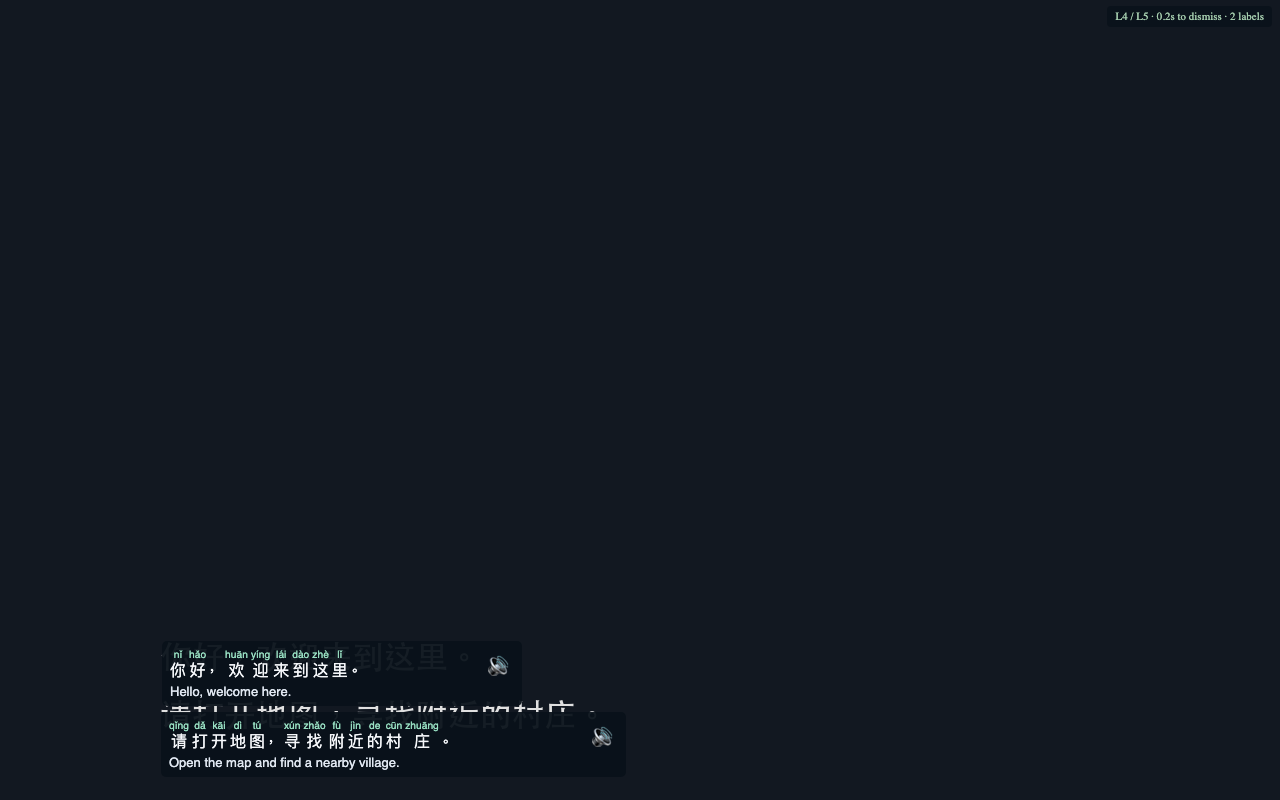
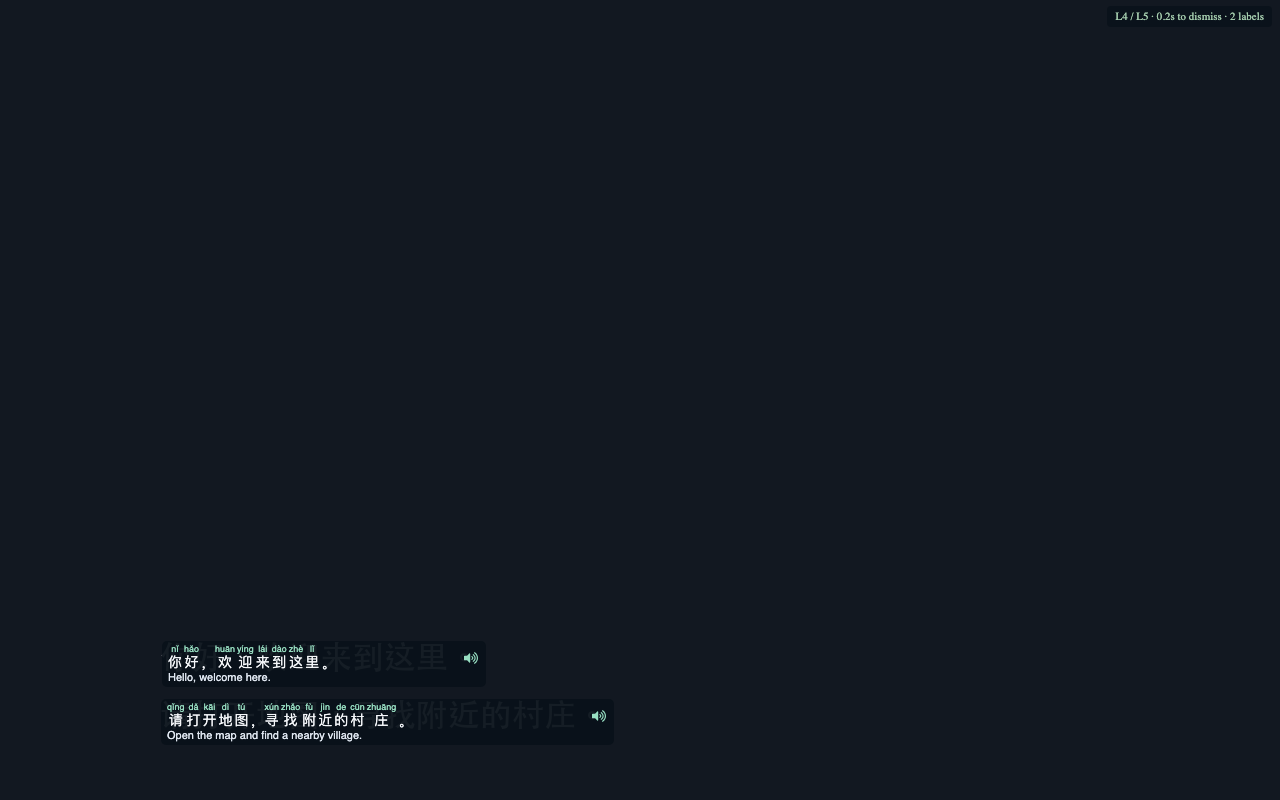
Keep dialogue rows in order and compact overlay labels

Changed region(s): [[0.125, 0.8125, 0.4688, 0.9688], [0.3438, 0.8125, 0.4062, 0.8438], [0.4688, 0.9062, 0.5, 0.9375]]

diff --git a/src/layout.ts b/src/layout.ts
@@ -3,48 +3,46 @@ export interface LabelSize { width: number; height: number; }
 export interface Placement { left: number; top: number; width: number; height: number; }
 
 const clamp = (value: number, low: number, high: number) => Math.max(low, Math.min(value, Math.max(low, high)));
-const overlap = (a: Placement, b: Placement) => Math.max(0, Math.min(a.left + a.width, b.left + b.width) - Math.max(a.left, b.left)) *
-  Math.max(0, Math.min(a.top + a.height, b.top + b.height) - Math.max(a.top, b.top));
-export const labelsOverlap = (boxes: Placement[]) => boxes.some((box, index) => boxes.slice(index + 1).some(other => overlap(box, other) > 0));
+const gap = 4;
+const sameColumn = (a: Placement, b: Placement) => a.left < b.left + b.width + gap && b.left < a.left + a.width + gap;
+export const labelsOverlap = (boxes: Placement[]) => boxes.some((a, index) => boxes.slice(index + 1).some(b =>
+  a.left < b.left + b.width && b.left < a.left + a.width && a.top < b.top + b.height && b.top < a.top + a.height));
+const layoutFits = (boxes: Placement[], width: number, height: number) => !labelsOverlap(boxes) && boxes.every(box =>
+  box.left >= 4 && box.top >= 32 && box.left + box.width <= width - 4 && box.top + box.height <= height - 4);
 
-// Anchor over the original text. Search neighboring free edges only when a
-// label would collide. If no layout fits, paginateLabels starts another page.
+// Keep OCR reading order within each overlapping column. Push later rows down,
+// then move the group upward if its last row reaches the bottom of the screen.
+// An over-tall group stays out of bounds so pagination can split it safely.
 export function placeLabels(rects: Rect[], sizes: LabelSize[], width: number, height: number): Placement[] {
-  const placed: Placement[] = [];
-  rects.forEach((rect, index) => {
-    const size = sizes[index];
-    const anchorX = clamp(rect.left * width, 4, width - size.width - 4);
-    const anchorY = clamp(rect.top * height, 32, height - size.height - 4);
-    const xs = [anchorX, 4, width - size.width - 4];
-    const ys = [anchorY, 32, height - size.height - 4];
-    for (const other of placed) {
-      xs.push(other.left - size.width - 6, other.left + other.width + 6);
-      ys.push(other.top - size.height - 6, other.top + other.height + 6);
+  const placed = rects.map((rect, index) => ({
+    left: clamp(rect.left * width, 4, width - sizes[index].width - 4),
+    top: clamp(rect.top * height, 32, height - sizes[index].height - 4),
+    ...sizes[index],
+  }));
+  for (let i = 0; i < placed.length; i++) {
+    for (let j = 0; j < i; j++) if (sameColumn(placed[i], placed[j])) {
+      placed[i].top = Math.max(placed[i].top, placed[j].top + placed[j].height + gap);
     }
-    const candidates = xs.flatMap(left => ys.map(top => {
-      const box = { left: clamp(left, 4, width - size.width - 4), top: clamp(top, 32, height - size.height - 4), ...size };
-      const collision = placed.reduce((sum, other) => sum + overlap(box, {
-        left: other.left - 3, top: other.top - 3, width: other.width + 6, height: other.height + 6,
-      }), 0);
-      return { box, collision, distance: Math.abs(box.left - anchorX) + Math.abs(box.top - anchorY) };
-    }));
-    candidates.sort((a, b) => a.collision - b.collision || a.distance - b.distance);
-    placed.push(candidates[0].box);
-  });
+  }
+  for (let i = placed.length - 1; i >= 0; i--) {
+    placed[i].top = Math.min(placed[i].top, height - placed[i].height - 4);
+    for (let j = i + 1; j < placed.length; j++) if (sameColumn(placed[i], placed[j])) {
+      placed[i].top = Math.min(placed[i].top, placed[j].top - placed[i].height - gap);
+    }
+  }
   return placed;
 }
 
 export interface LabelPage { indices: number[]; positions: Placement[]; }
 
-// Keep every label at a source-based position. Dense captures are split into
-// pages instead of moving all text into a clipped or scroll-dependent list.
+// Split sequential rows only when the whole group cannot fit on screen.
 export function paginateLabels(rects: Rect[], sizes: LabelSize[], width: number, height: number): LabelPage[] {
   const pages: LabelPage[] = [];
   let current: LabelPage = { indices: [], positions: [] };
   rects.forEach((_, index) => {
     const indices = [...current.indices, index];
     const positions = placeLabels(indices.map(i => rects[i]), indices.map(i => sizes[i]), width, height);
-    if (current.indices.length && labelsOverlap(positions)) {
+    if (current.indices.length && !layoutFits(positions, width, height)) {
       pages.push(current);
       current = { indices: [index], positions: placeLabels([rects[index]], [sizes[index]], width, height) };
     } else current = { indices, positions };

diff --git a/src/Overlay.tsx b/src/Overlay.tsx
@@ -1,3 +1,4 @@
+import { FaVolumeUp } from "react-icons/fa";
 import { findModuleChild, useQuickAccessVisible } from "@decky/ui";
 import { useLayoutEffect, useRef, useState } from "react";
 import { paginateLabels } from "./layout";
@@ -65,8 +66,8 @@ function ReadingSurface({ store }: { store: Store }) {
     const line = result!.lines[index];
     const font = state!.settings.font_size;
     const textWidth = line.tokens.reduce((sum, token) => sum + Math.max(token.text.length * font,
-      token.pinyin.length * font * .64 * .6) + 3, 0) + 64;
-    return Math.min(width - 24, 680, Math.max(360, textWidth, (line.rect.right - line.rect.left) * width + 28));
+      token.pinyin.length * font * .64 * .6) + 2, 0) + 36;
+    return Math.min(width - 24, 680, Math.max(240, textWidth, (line.rect.right - line.rect.left) * width + 16));
   };
   useLayoutEffect(() => {
     if (!result) return;
@@ -95,16 +96,16 @@ function ReadingSurface({ store }: { store: Store }) {
             style={{ position: "absolute", visibility: shown ? "visible" : "hidden", left: position?.left ?? 4,
               top: position?.top ?? 32, width: cardWidth(index), maxHeight: height - 48,
               flexShrink: 0, writingMode: "horizontal-tb",
-              padding: "5px 8px", boxSizing: "border-box", borderRadius: 5, color: "#f5f7fa", background: "rgba(9,17,26,.94)",
+              padding: "3px 6px", boxSizing: "border-box", borderRadius: 5, color: "#f5f7fa", background: "rgba(9,17,26,.94)",
               fontFamily: "sans-serif", overflowY: "auto", pointerEvents: shown ? "auto" : "none" }}>
-            <div style={{ display: "flex", alignItems: "center", gap: 5 }}>
-              <div style={{ flex: 1, minWidth: 0, fontSize: state.settings.font_size, lineHeight: 1.85, overflowWrap: "normal" }}>
-                {line.tokens.map((token, i) => token.pinyin ? <ruby key={i} style={{ display: "inline-flex", flexDirection: "column-reverse", alignItems: "center", verticalAlign: "bottom", marginRight: 3, whiteSpace: "nowrap", lineHeight: 1.3 }}>{token.text}<rt style={{ display: "block", fontSize: ".64em", color: "#98dfc2", lineHeight: 1.25 }}>{token.pinyin}</rt></ruby> : <span key={i}>{token.text}</span>)}
+            <div style={{ display: "flex", alignItems: "center", gap: 3 }}>
+              <div style={{ flex: 1, minWidth: 0, fontSize: state.settings.font_size, lineHeight: 1.1, overflowWrap: "normal" }}>
+                {line.tokens.map((token, i) => token.pinyin ? <ruby key={i} style={{ display: "inline-flex", flexDirection: "column-reverse", alignItems: "center", verticalAlign: "bottom", marginRight: 2, whiteSpace: "nowrap", lineHeight: 1.2 }}>{token.text}<rt style={{ display: "block", fontSize: ".64em", color: "#98dfc2", lineHeight: 1.15 }}>{token.pinyin}</rt></ruby> : <span key={i}>{token.text}</span>)}
               </div>
               <button aria-label={`Speak Chinese line ${index + 1}`} onClick={() => speak(index)}
-                style={{ color: "#98dfc2", background: "transparent", border: 0, padding: 5, fontSize: 18 }}>🔊</button>
+                style={{ color: "#98dfc2", background: "transparent", border: 0, padding: 2, flexShrink: 0, lineHeight: 1 }}><FaVolumeUp size={14} aria-hidden="true" /></button>
             </div>
-            {state.settings.translation && <div style={{ fontSize: Math.max(13, state.settings.font_size - 3), lineHeight: 1.3, color: "#e1e8f2" }}>
+            {state.settings.translation && <div style={{ fontSize: Math.max(10, state.settings.font_size - 3), lineHeight: 1.2, color: "#e1e8f2" }}>
               {line.translation || (result.translating ? "Translating…" : result.translation_error ? "Translation unavailable" : "")}
             </div>}
           </div>;

diff --git a/tests/overlay-harness.tsx b/tests/overlay-harness.tsx
@@ -9,7 +9,7 @@ import fixture from "../artifacts/overlay-fixture.json";
 const state: State = {
   version: 1,
   status: "running", message: "Local", installed: true, screenshot: "../artifacts/ocr-fixture.png",
-  settings: { enabled: true, chinese_script: "auto", tts_auto: false, translation: true, tone_style: "marks", font_size: 16, confidence: .65, threads: 2, ocr_device: "auto" },
+  settings: { enabled: true, chinese_script: "auto", tts_auto: false, translation: true, tone_style: "marks", font_size: 14, confidence: .65, threads: 2, ocr_device: "auto" },
   result: fixture,
 };
 const store = new Store();
@@ -54,6 +54,10 @@ Object.assign((window as any).preview, {
   tradition: () => store.update({ ...state, result: { ...state.result!, lines: [{ ...state.result!.lines[0], text: "銀行的行長喜歡旅行。", tokens: [..."銀行的行長喜歡旅行。"].map((text) => ({text, pinyin: "háng"})) }] } }),
   narrow: () => store.update({ ...state, result: { ...state.result!, lines: [{ ...state.result!.lines[0], rect: { left: .2, top: .4, right: .21, bottom: .45 } }] } }),
   crowded: () => store.update({ ...state, settings: { ...state.settings, font_size: 32 }, result: { ...state.result!, lines: Array.from({length: 8}, () => ({ ...state.result!.lines[0], tokens: Array(20).fill(state.result!.lines[0].tokens).flat(), rect: { left: .4, top: .5, right: .41, bottom: .55 } })) } }),
+  bottomDialogue: () => store.update({ ...state, result: { ...state.result!, lines: [.82, .87, .92, .97].map(top => ({
+    ...state.result!.lines[0], tokens: Array(3).fill(state.result!.lines[0].tokens).flat(),
+    rect: { left: .32, top, right: .84, bottom: top + .04 },
+  })) } }),
   multi: () => store.update({ ...state, result: { ...state.result!, lines: [
     { ...state.result!.lines[0], rect: { left: .02, top: .02, right: .43, bottom: .07 } },
     { ...state.result!.lines[0], rect: { left: .52, top: .72, right: .98, bottom: .79 } },

diff --git a/src/Panel.tsx b/src/Panel.tsx
@@ -54,14 +54,14 @@ export function Panel({ store, controller }: { store: Store; controller: Control
       <PanelSectionRow><DropdownItem label="Pinyin tones" selectedOption={state.settings.tone_style} disabled={busy}
         rgOptions={[{ data: "marks", label: "Tone marks · nǐ hǎo" }, { data: "numbers", label: "Numbers · ni3 hao3" }, { data: "none", label: "No tones · ni hao" }]}
         onChange={(option) => save("tone_style", option.data)} /></PanelSectionRow>
-      <PanelSectionRow><SliderField label="Text size" value={state.settings.font_size} min={16} max={32} step={2} disabled={busy}
+      <PanelSectionRow><SliderField label="Text size" value={state.settings.font_size} min={14} max={32} step={2} disabled={busy}
         onChange={(value) => save("font_size", value)} /></PanelSectionRow>
     </PanelSection>
     <PanelSection title="Speech">
 
       <PanelSectionRow><ButtonItem disabled={busy || !state.result?.lines.length} layout="below" onClick={() => void action(() => rpc.speak(-1))}>Speak captured Chinese</ButtonItem></PanelSectionRow>
       {(state.speech_status === "generating" || state.speech_status === "speaking") && <PanelSectionRow><ButtonItem layout="below" onClick={() => void action(rpc.stopSpeech)}>Stop speech</ButtonItem></PanelSectionRow>}
-      <PanelSectionRow><div style={{ fontSize: 12 }}>Offline Mandarin · Piper Huayan medium. Tap 🔊 beside a line to read it.{state.speech_error && <p>{state.speech_error}</p>}</div></PanelSectionRow>
+      <PanelSectionRow><div style={{ fontSize: 12 }}>Offline Mandarin · Piper Huayan medium. Tap the speaker icon beside a line to read it.{state.speech_error && <p>{state.speech_error}</p>}</div></PanelSectionRow>
     </PanelSection>
     <PanelSection title="Performance">
       <PanelSectionRow><DropdownItem label="OCR processor" selectedOption={state.settings.ocr_device} disabled={busy}

diff --git a/src/index.tsx b/src/index.tsx
@@ -24,7 +24,7 @@ export default definePlugin(() => {
   const suspend = steam?.User?.RegisterForPrepareForSystemSuspendProgress?.(() => { void rpc.pause().then(store.update).catch(console.error); });
   return {
     name: "Decky Pinyin",
-    titleView: <div className={staticClasses.Title}>Decky Pinyin · 0.7.2</div>,
+    titleView: <div className={staticClasses.Title}>Decky Pinyin · 0.7.3</div>,
     content: <Panel store={store} controller={controller} />,
     icon: <BsTranslate />,
     alwaysRender: true,

diff --git a/backend/config.py b/backend/config.py
@@ -9,7 +9,7 @@ class Settings:
     tts_auto: bool = True
     translation: bool = True
     tone_style: str = "marks"
-    font_size: int = 16
+    font_size: int = 14
     confidence: float = 0.65
     threads: int = 2
     ocr_device: str = "auto"
@@ -22,7 +22,7 @@ class Settings:
         if set(raw) - set(values):
             raise ValueError("Unknown setting")
         values.update(raw)
-        for name, lo, hi in (("font_size", 16, 32), ("threads", 1, 4)):
+        for name, lo, hi in (("font_size", 14, 32), ("threads", 1, 4)):
             value = values[name]
             if type(value) is not int or not lo <= value <= hi:
                 raise ValueError(f"{name} must be an integer from {lo} to {hi}")

diff --git a/tests/test_plugin.py b/tests/test_plugin.py
@@ -85,7 +85,7 @@ async def test_disabled_preference_persists_but_pause_preserves_enabled(plugin_m
     module, _ = plugin_module
     plugin = module.Plugin()
     await plugin._main()
-    assert plugin.settings.enabled and plugin.settings.font_size == 16
+    assert plugin.settings.enabled and plugin.settings.font_size == 14
     await plugin.pause()
     assert plugin.settings.enabled
     await plugin.stop()

diff --git a/README.md b/README.md
@@ -2,18 +2,18 @@
 
 A personal Decky plugin for **Chinese text → tone-marked pinyin + English on demand**, entirely on the Steam Deck. Inspired by [Decky-Translator](https://github.com/cat-in-a-box/Decky-Translator).
 
-**Status:** the user confirmed that 0.5.1 capture and overlay work on their Steam Deck. The user confirmed speech and pinyin in 0.6.x, but reported a dark screen and narrow/hidden labels. The user then reported invisible labels with working speech in 0.7.0. Version 0.7.1 then made the entire overlay invisible. A two-window browser test reproduced labels being attached to the loader window instead of the game UI. Version 0.7.2 selects the rendered component’s owner document and measures its actual overlay surface. The new regression checks pass; device confirmation is still needed. Deck latency and game performance have not been measured.
+**Status:** the user confirmed that 0.7.2 capture, speech and overlay are visible on their Steam Deck. Their photo showed later dialogue rows moving above earlier ones when space ran out. Version 0.7.3 preserves reading order, moves crowded rows upward together, and makes labels more compact. The new layout still needs device confirmation. Deck latency and game performance have not been measured.
 
 ## Install
 
-1. Copy `out/Decky-Pinyin-0.7.2-offline.zip` to your Steam Deck.
+1. Copy `out/Decky-Pinyin-0.7.3-offline.zip` to your Steam Deck.
 2. In Decky settings, enable Developer Mode. Open Developer → Install Plugin from ZIP and select the file.
 3. Launch a game in Gaming Mode and open **Decky Pinyin**.
 4. The **L4 / L5 shortcuts are enabled by default**; allow the local models to load. Disable other plugins using these keys.
 5. Close the menu and hold **L4 for Simplified Chinese** or **L5 for Traditional Chinese**, for **0.2 seconds**. With labels visible, hold either key to dismiss; release and hold the desired key for the next capture. A progress indicator shows activation.
 6. The panel also has **Capture Simplified**, **Capture Traditional** and **Dismiss overlay** buttons. Disable the shortcut to unload the models. Settings changes restart models when enabled. Disabling the shortcut is remembered across reloads.
 
-Download the actual `Decky-Pinyin-0.7.2-offline.zip` release asset. If downloading the Actions artifact named `decky-pinyin-offline.zip`, extract that wrapper once and install the inner versioned offline ZIP.
+Download the actual `Decky-Pinyin-0.7.3-offline.zip` release asset. If downloading the Actions artifact named `decky-pinyin-offline.zip`, extract that wrapper once and install the inner versioned offline ZIP.
 
 The ZIP includes Python, dependencies, OCR weights, the neural pinyin model, the translation model, and an offline Mandarin voice. **No model setup, API keys, network connection, or system Python changes are needed on the Deck.** Building the ZIP on a developer machine requires downloads once. Existing Decky Loader and SteamOS PipeWire/GStreamer components are required. Desktop Mode is not currently supported.
 
@@ -26,9 +26,9 @@ Capture and controller handling are ported from Decky-Translator; see [upstream 
 - PP-OCRv4 mobile detection/recognition with experimental native WebGPU acceleration (Vulkan on Linux). Default Auto mode attempts GPU and reports CPU fallback if unavailable; explicit GPU and CPU modes are also available. Unsupported GPU operations can still use CPU kernels; horizontal Chinese text is the intended input. Stylized fonts, vertical text, motion blur, and very small glyphs may be missed.
 - OPUS-MT Chinese-to-English, converted to int8 CTranslate2, with greedy decoding for speed. Translation quality is limited by this compact model and OCR quality. English is the current target language.
 - Pinyin appears before translation. Old translations never replace newer dialogue.
-- Every activation captures the full screen. The old overlay and Quick Access menu are hidden first, with a brief settling delay before capture to avoid reading our own text. There are no capture-region options. The game stays visible with 12% translucent dimming. Captured screenshots are used for recognition and never displayed over the game. Dark labels are anchored over the original text; collisions move labels to the nearest available space. Narrow OCR boxes do not force narrow labels. If labels cannot fit without overlap, Previous/Next buttons show additional pages at their source positions. The overlay renders in a separate layer isolated from Steam/Decky container clipping and global styles. The labels describe a single capture; dismiss and recapture if the game text moves. Default text size is 16 px, the slider minimum.
+- Every activation captures the full screen. The old overlay and Quick Access menu are hidden first, with a brief settling delay before capture to avoid reading our own text. There are no capture-region options. The game stays visible with 12% translucent dimming. Captured screenshots are used for recognition and never displayed over the game. Dark labels are anchored over the original text; overlapping rows keep their reading order and shift upward together when they reach the bottom. Narrow OCR boxes do not force narrow labels. If labels cannot fit without overlap, Previous/Next buttons show additional pages at their source positions. The overlay renders in a separate layer isolated from Steam/Decky container clipping and global styles. The labels describe a single capture; dismiss and recapture if the game text moves. Default Chinese text size is 14 px, the slider minimum; pinyin is about 9 px and English is 11 px. Compact padding and line spacing reduce card height.
 - Models remain loaded while enabled. Each request opens a short PipeWire capture, preferring a PNG snapshot with raw RGB fallback. Dismissed or superseded results cannot reappear. Requests are serialized; the overlay stays until dismissed or replaced.
-- Tap **🔊** on a label to hear that line in Mandarin, or use **Speak captured Chinese** in the panel. **Read Chinese after capture** is on by default: recognized Chinese is read aloud once after each capture. Turn it off for button-only speech. The bundled Piper Huayan voice runs on CPU and plays through SteamOS audio. Capture, dismissal, Stop speech and unload stop playback.
+- Tap the **speaker icon** on a label to hear that line in Mandarin, or use **Speak captured Chinese** in the panel. **Read Chinese after capture** is on by default: recognized Chinese is read aloud once after each capture. Turn it off for button-only speech. The bundled Piper Huayan voice runs on CPU and plays through SteamOS audio. Capture, dismissal, Stop speech and unload stop playback.
 - Stop/unload terminates the worker and capture process group, freeing memory. Suspend stops the session; enable the shortcut after waking.
 - No screenshot history, text history, telemetry, remote fonts, or inference HTTP requests. The capture uses a private temporary PNG, deleted after decoding. Python inference refuses IP socket connections. Only settings are persisted; diagnostics go to Decky's plugin log.
 

diff --git a/docs/VERIFICATION.md b/docs/VERIFICATION.md
@@ -87,3 +87,11 @@ Browser regression checks impose a 1 px clipped/transformed host and global rule
 The user reports that 0.7.1 has speech but no overlay at all. Inspection of the installed Decky UI code shows that Steam UI windows are located through rendered elements' ownerDocument/defaultView. Our 0.7.1 portal instead appended to the module-global document.body; layout since 0.6.0 also read module-global window dimensions. These globals can belong to the loader window while React renders the component into a different game UI window.
 
 A two-window reproduction (320×240 loader, 1280×800 game UI) put 0 labels in the game UI and 2 in the loader before the fix. After selecting the ownerDocument from a React-rendered anchor and measuring the actual full-screen overlay element's clientWidth/clientHeight, the same test puts 2 labels in the game UI and 0 in the loader. Browser tests verify 1:1 source coordinates, no movement when the loader resizes, correct 1920×1080 game-window letterboxing, and removal from the correct document on stop. artifacts/overlay-other-window.png records the corrected game window. Existing rendering/interaction tests still pass. This reproduces a concrete multi-window bug; final Steam compositor/device confirmation remains pending.
+
+## Compact labels and dialogue reading order (0.7.3)
+
+The user confirmed the 0.7.2 overlay is visible. Their clipboard photo showed late dialogue rows placed above the speaker and earlier rows. The old nearest-space search reproduced this at 1280×800: four sequential 80 px rows received top coordinates 576, 662, 490, 404. Placement now preserves reading order for horizontally overlapping cards, pushes later rows down, then shifts the group upward to fit. Pagination checks bounds as well as overlap and splits groups that are too tall. Separate columns keep independent source anchors.
+
+Default/minimum Chinese size is 14 px, pinyin is 0.64× (8.96 px), and English is 11 px. Card padding, token spacing, line heights and row gaps are smaller. Short cards can be 240 px wide; longer cards retain up to 680 px. A monochrome 14 px speaker icon replaces the emoji. Automatic speech remains enabled.
+
+Regression checks cover uniform and variable-height bottom rows, ordered pagination for oversized groups, and rendered compact four-row dialogue. Existing browser checks cover bounds, syllable collisions, hostile host CSS, separate loader/game documents, resizing, controls and speech dispatch. artifacts/overlay-bottom-dialogue.png records the synthetic dialogue fixture; the user's clipboard photo is not included. Physical Deck readability and this new layout need user confirmation.

diff --git a/docs/STEAM_DECK_TEST.md b/docs/STEAM_DECK_TEST.md
@@ -1,6 +1,6 @@
 # Steam Deck acceptance test
 
-The user confirmed 0.5.1 capture and overlay work. The following 0.7.2 checks are pending on a physical Steam Deck. Host tests cannot establish Gamescope capture, Steam overlay rendering, or in-game latency/power impact.
+The user confirmed 0.7.2 capture, speech and overlay work. The following 0.7.3 checks are pending on a physical Steam Deck. Host tests cannot establish Gamescope capture, Steam overlay rendering, or in-game latency/power impact.
 
 ## Install and offline inference
 
@@ -52,4 +52,6 @@ If capture fails, inspect Decky's plugin log and run `pw-dump` as the Deck user.
 - Verify narrow OCR boxes still produce wide labels; pinyin syllables and label cards must not overlap. Dense captures should expose Previous/Next buttons, keep each page nonempty and make every line reachable. No scrolling-list message should appear.
 - Confirm the game remains visible through light dimming; no captured screenshot or opaque full-screen background should cover it.
 
-- Confirm 0.7.2 shows labels in Gaming Mode while speech runs. Confirm handheld/docked resizing keeps labels aligned; resizing/opening other Steam windows must not change overlay placement.
+- Confirm 0.7.3 shows labels in Gaming Mode while speech runs. Confirm handheld/docked resizing keeps labels aligned; resizing/opening other Steam windows must not change overlay placement.
+
+- Capture four dialogue rows near the bottom: labels must remain in reading order, shifting upward together without overlap. Confirm 14 px Chinese, smaller pinyin and 11 px English are readable, with compact spacing and a plain speaker icon.
